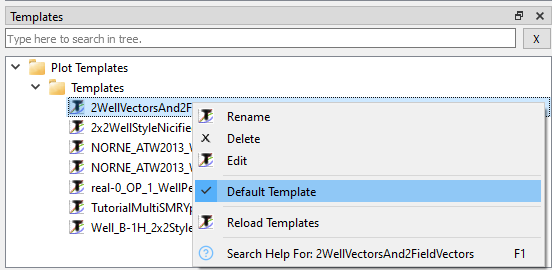
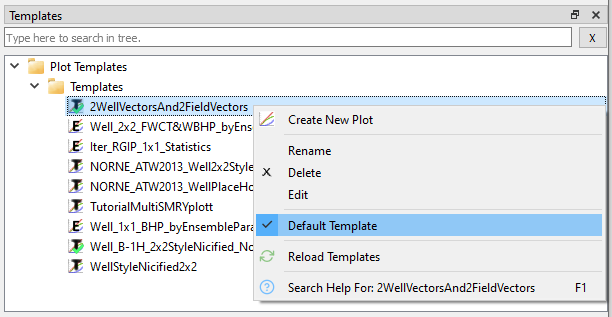
Update SMRY templates and related section of Preferences (Plotting)

Changed region(s): [[0.0, 0.0, 1.0, 1.0]]

diff --git a/content/plot-window/SummaryPlotTemplate.md b/content/plot-window/SummaryPlotTemplate.md
@@ -18,11 +18,19 @@ A Summary Plot Template can subsequently be used for summary plotting of various
 - case(s), ensemble(s), and realization(s)
 - well(s), group(s), and region(s)
 
-When saving a Summary Plot Template, ResInsight by default incorporates placeholders for using the template in conjunction with various wells, groups, and regions. 
-On the other hand, expand and check the appropriate boxes if you want to persist wells, groups, and/or regions.
+When saving a Summary Plot Template, ResInsight incorporates by default placeholders for using the template in conjunction with various wells, groups, and regions. 
+On the other hand, expand and check the appropriate boxes if you want to **persist** the specific wells, groups, and/or regions as part of the plot template definition.
 To exemplify, checking *Wells* for persistence enables plotting of data for the exact wells of the template in conjunction with any ensemble realization.
 
 ![]({{< relref "" >}}images/plot-window/SummaryPlotTemplateSavePersistentObjectNames.png)
+
+Upon export, ResInsight automatically categorizes the template as an **Ensemble Template** if the template involves plotting of data for an ensemble. 
+Otherwise the template is categorized as a **Summary Case** template.
+Ensemble Templates are listed with the icon 
+{{< image-in-text src="images/plot-window/IconEnsembleTemplate.png" >}} 
+while Summary Case templates are listed with the icon
+{{< image-in-text src="images/plot-window/IconSummaryCaseTemplate.png" >}}
+in the [Templates Window]({{< relref "summaryplottemplate#templates-window" >}}), c.f. below.
 
 Each summary plot template is stored in a single file on disk. ResInsight searches a set of directories for template files which are listed and managed by [**Plotting Preferences**]({{< relref "preferences#plotting" >}}). 
 Given a new path, ResInsight will ask the user to confirm whether the path of the stored template is to be included in subsequent searches for templates. 
@@ -42,18 +50,22 @@ Summary templates made with prior versions are incompatible with ResInsight 2022
 
 
 ## Default templates
-Default templates is a powerful feature to automate the generation of summary plots when importing a summary case. The basis for automation is the selection of one or more default templates.
+Default templates is a powerful feature to automate the generation of summary plots when importing a summary case or ensemble. The basis for automation is the selection of one or more default templates.
 
 Specify each default template by right-clicking in the **Templates** window.
 Then activate the use of default templates by specifying **Use Plot Templates** in the **Plotting tab** of Preferences, c.f. menu option [**Edit&rarr;Preferences**]({{< relref "preferences#plotting" >}}).
 
-
 ![]({{< relref "" >}}images/plot-window/SummaryPlotTemplateWindow.png)
 
+As shown, default templates are listed with a green color in their icon.
+Both {{< image-in-text src="images/plot-window/IconSummaryCaseTemplate.png" >}}**Summary Case templates** and {{< image-in-text src="images/plot-window/IconEnsembleTemplate.png" >}}**Ensemble templates** may constitute default templates. 
+When loading a summary case, the default Summary Case templates will be applied automatically, while default Ensemble templates will be applied automatically when loading an ensemble.
 
-## Templates management
-The **Templates** window enables overview of summary plot templates by directory and offers the following functionality:
 
+## Templates window
+As seen above, the **Templates** window enables management and overview of summary plot templates by directory and offers the following functionality:
+
+- create new plot based on selected template
 - rename template
 - delete template
 - edit template XML file in the *Script Editor* specified in 

diff --git a/content/misc/Preferences.md b/content/misc/Preferences.md
@@ -74,13 +74,19 @@ When changing the preferences, any default color, font or Z-scale Factor that ha
   - **Curve Color By Phase**: distinguish each phase by separate color.
   - **Show resample time text** preference
 - **Multi Plot Defaults**: specification of number of rows and columns for each page containing multiple summary plots.
-- **Plot Templates**: specification of folders and search for templates.
+- **Plot Templates**: specification of folders and folder search depth for templates.
   - Press **Append** to browse for folder to append. 
-  - Check **Search Plot Templates Recursively** to also search subdirectories for templates.
+  - Specify **Maximum Plot Template Folder Search Depth** to restrict the depth of subdirectories to be searched for templates.
 - **General**
   - **Date** and **Time** format preferences.
   - **Page Setup**: Physical page size, orientation, and margins. 
 
+ {{% notice note %}}
+Please consider the location and folders of your templates with care to cater for structured usage but also to limit the folder search depth for performance reasons.
+{{% /notice %}}
+
+  
+  
 
 ## Scripting
 
